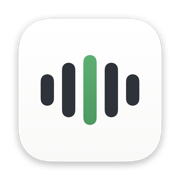
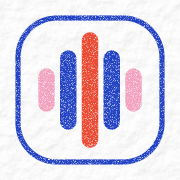
Cadence site: orb in the hero demo, loop on the hero line, cold-press paper, tighter spacing, new mark, DC Labs company credit
- The orb sits beside the Notes window; while you talk the note types (one word per
  stretch of voice). The separate Try it section is gone, so the flow is back.
- The hand-drawn loop circles 'Nothing leaves your Mac.'; its length is measured on
  screen so the draw is a full line.
- Paper: embossed cold-press texture (feDiffuseLighting) on every surface.
- Spacing: one section rhythm, wider demo, hero art capped, feature grid with no gaps,
  header nav collapses before it wraps; checked 360-2560 with no overflow.
- Mark: pink and cobalt bars with a red peak on white paper (no coloured tile);
  favicon and touch icon regenerated from it.
- Credit everywhere: Built by DC Labs, a Daniel J. Cuesta company.

diff --git a/site/style.css b/site/style.css
@@ -11,6 +11,7 @@
   --sans:-apple-system,BlinkMacSystemFont,"SF Pro Text","Helvetica Neue",Arial,sans-serif;
   --mono:ui-monospace,"SF Mono",Menlo,monospace;
   --gutter:clamp(16px,5vw,64px); --max:1120px;
+  --section:clamp(64px,8vw,112px);
   /* The content cap tracks the window instead of stopping at a fixed 1120px, which left wide
      dead margins either side on any screen wider than ~1250px (Daniel, 14 Oct: "no matter what
      computer it's loaded in it fixes itself accordingly"). Gutters already scale, so the column
@@ -51,23 +52,23 @@ code { font-size:.88em; }
 .site-header .nav-cta { color:var(--blue-ink); background:var(--blue); padding:0 18px; border-radius:999px; box-shadow:3px 3px 0 var(--pink); }
 .site-header .nav-cta:hover { color:var(--blue-ink); transform:translate(-1px,-1px); box-shadow:4px 4px 0 var(--pink); }
 
-main > section { padding:clamp(72px,10vw,128px) var(--gutter); }
+main > section { padding:var(--section) var(--gutter); }
 main > section > * { max-width:var(--max); margin-left:auto; margin-right:auto; }
 .kicker,.eyebrow { font:700 12px/1.4 var(--sans); letter-spacing:.24em; text-transform:uppercase; color:var(--red-text); margin-top:0; margin-bottom:16px; }
 h1,h2,h3 { margin:0; line-height:1.05; color:var(--blue); }
-h2 { font:700 clamp(36px,5.2vw,64px)/1.02 var(--serif); letter-spacing:-.02em; text-wrap:balance; margin-bottom:clamp(28px,4vw,48px); }
+h2 { font:700 clamp(34px,4.6vw,60px)/1.04 var(--serif); letter-spacing:-.02em; text-wrap:balance; margin-bottom:clamp(24px,3.4vw,44px); }
 h3 { font:700 21px/1.25 var(--serif); }
 .section-lede { color:var(--muted); font-size:19px; padding-right:max(0px,calc(100% - 60ch)); margin-top:-24px; margin-bottom:36px; }
 .caption { color:var(--muted); font-size:14px; margin-top:20px; }
 
 /* Hero */
-.hero { padding-top:clamp(48px,7vw,96px) !important; padding-bottom:clamp(56px,7vw,96px) !important; }
+.hero { padding-top:clamp(36px,5vw,72px) !important; }
 .hero-grid { display:grid; grid-template-columns:minmax(0,1.05fr) minmax(0,.95fr); gap:clamp(32px,5vw,72px); align-items:center; }
-.hero h1 { font:700 clamp(48px,6vw,92px)/.96 var(--serif); letter-spacing:-.035em; }
+.hero h1 { font:700 clamp(38px,6vw,92px)/.96 var(--serif); letter-spacing:-.035em; }
 .hero h1 span { display:inline-block; margin-top:.12em; font-style:italic; font-weight:500; font-size:.62em; letter-spacing:-.02em; color:var(--red-text); }
 .lede { font-size:clamp(18px,1.7vw,21px); color:var(--muted); max-width:52ch; margin:26px 0 34px; }
 .hero-actions { display:flex; gap:14px; flex-wrap:wrap; }
-.hero-art { padding:clamp(8px,1.4vw,16px); transform:rotate(1.2deg); }
+.hero-art { padding:clamp(8px,1.4vw,16px); transform:rotate(1.2deg); width:100%; max-width:620px; justify-self:end; }
 .button { display:inline-flex; align-items:center; justify-content:center; min-height:52px; padding:0 26px; border-radius:999px;
   background:var(--blue); color:var(--blue-ink); font:700 16px/1 var(--sans); text-decoration:none; border:2px solid var(--blue); box-shadow:4px 4px 0 var(--pink); transition:transform .12s, box-shadow .12s; }
 .button:hover { transform:translate(-2px,-2px); box-shadow:6px 6px 0 var(--pink); }
@@ -76,13 +77,13 @@ h3 { font:700 21px/1.25 var(--serif); }
 .button.ghost:hover { background:var(--pink-soft); box-shadow:none; transform:none; }
 
 /* Hero demo: a note window and the dictation pill */
-.demo { position:relative; margin-top:clamp(56px,7vw,88px) !important; max-width:820px !important; }
+.demo { position:relative; margin-top:clamp(40px,5vw,72px) !important; max-width:1180px !important; }
 .window { background:var(--card); border:2px solid var(--blue); border-radius:16px; text-align:left; box-shadow:8px 8px 0 var(--pink); }
 .window-bar { display:flex; gap:8px; align-items:center; padding:12px 14px; border-bottom:2px solid var(--blue); }
 .window-bar span { width:11px; height:11px; border-radius:50%; border:2px solid var(--blue); }
 .window-bar span:first-child { background:var(--red); border-color:var(--red); }
 .window-bar p { margin:0 auto; font:600 12px/1 var(--sans); letter-spacing:.16em; text-transform:uppercase; color:var(--muted); transform:translateX(-24px); }
-.typed { margin:0; padding:28px clamp(18px,4vw,36px) 72px; font:clamp(18px,2.1vw,24px)/1.55 var(--serif); color:var(--ink); min-height:190px; }
+.typed { margin:0; padding:26px clamp(18px,3.4vw,34px) 64px; font:clamp(18px,2.1vw,24px)/1.55 var(--serif); color:var(--ink); min-height:190px; }
 .typed .w { opacity:0; animation:word .25s ease-out forwards; }
 .caret { display:inline-block; width:3px; height:1.1em; margin-left:3px; vertical-align:-.15em; background:var(--red); animation:blink 1s steps(1) infinite; }
 .pill { position:absolute; left:50%; bottom:-22px; transform:translateX(-50%); display:flex; align-items:center; gap:10px;
@@ -99,30 +100,32 @@ h3 { font:700 21px/1.25 var(--serif); }
 @keyframes word { from { opacity:0; filter:blur(3px); } to { opacity:1; filter:none; } }
 @keyframes blink { 50% { opacity:0; } }
 
-/* Try it: a hand-drawn loop around the title, then the voice orb */
-.scribble-title { position:relative; max-width:880px !important; padding:clamp(48px,7vw,84px) 0; }
-.try { text-align:center; overflow:clip; padding-top:clamp(24px,4vw,56px) !important; }
-.scribble { position:absolute; inset:-2% -9%; width:118%; height:104%; overflow:visible; pointer-events:none; }
-.scribble path { fill:none; stroke:var(--red); stroke-width:12; stroke-linecap:round; stroke-linejoin:round; opacity:.9; stroke-dasharray:1 2; stroke-dashoffset:0; }
-.scribble-title > :not(svg) { position:relative; }
-.scribble-title h2 { font-size:clamp(40px,5.4vw,72px); margin-bottom:12px; }
-.scribble-sub { margin:0 auto; max-width:40ch; color:var(--muted); font-size:clamp(17px,1.8vw,21px); }
-/* 1.05 with a gap of 2: the round cap sits fully inside the gap, so no stray dot before the draw */
-.scribble-title.armed .scribble path { stroke-dashoffset:1.05; }
-.scribble-title.armed h2 { opacity:0; transform:translateY(20px); }
-.scribble-title.armed .scribble-sub { opacity:0; }
-.scribble-title.drawn .scribble path { animation:draw 2.5s cubic-bezier(.43,.13,.23,.96) forwards; }
-.scribble-title.drawn h2 { opacity:1; transform:none; transition:opacity .8s .5s, transform .8s .5s; }
-.scribble-title.drawn .scribble-sub { opacity:1; transition:opacity .8s 1s; }
+/* The loop: a red pencil circle drawn once around "Nothing leaves your Mac." (stretches to the line) */
+.hero h1 .circled { position:relative; display:inline-block; padding:.08em .22em; margin-left:-.22em; }
+.scribble { position:absolute; left:-18%; top:-34%; width:140%; height:168%; overflow:visible; pointer-events:none; }
+.scribble path { fill:none; stroke:var(--red); stroke-width:4.5px; stroke-linecap:round; stroke-linejoin:round; opacity:.92; }
+/* try.js measures the on-screen length into --loop. Gap of 2 and offset 1.05: the round cap
+   sits fully inside the gap, so no stray dot before the draw. Without JS the loop is just drawn. */
+.circled.armed .scribble path { stroke-dasharray:var(--loop) calc(var(--loop) * 2); stroke-dashoffset:calc(var(--loop) * 1.05); }
+.circled.drawn .scribble path { animation:draw 2.5s .4s cubic-bezier(.43,.13,.23,.96) forwards; }
 @keyframes draw { to { stroke-dashoffset:0; } }
-.try-stage { display:flex; flex-direction:column; align-items:center; gap:18px; margin-top:clamp(12px,3vw,32px) !important; }
-.orb-card { position:relative; width:min(420px,100%); aspect-ratio:1; overflow:hidden; display:grid; place-items:center; }
+
+/* Live demo: the Notes window and the orb side by side, the controls underneath */
+.demo-grid { display:grid; grid-template-columns:minmax(0,1.7fr) minmax(0,1fr); gap:clamp(18px,2.4vw,32px); align-items:stretch; }
+.demo-note { position:relative; display:flex; }
+.demo-note .window { flex:1; }
+.orb-card { position:relative; min-height:240px; overflow:hidden; display:grid; place-items:center; }
 .orb-card canvas { position:absolute; inset:0; width:100%; height:100%; display:block; }
-.orb-fallback { display:none; width:60%; }
+.orb-fallback { display:none; width:min(60%,200px); }
 .orb-card.no-webgl canvas { display:none; }
 .orb-card.no-webgl .orb-fallback { display:block; }
-.orb-status { min-height:1.6em; margin:0; font:italic 600 19px/1.4 var(--serif); color:var(--blue); }
-.orb-note { max-width:52ch; margin:0; }
+.demo-controls { display:flex; flex-wrap:wrap; align-items:center; gap:10px 18px; margin-top:44px; }
+.orb-status { margin:0; font:italic 600 18px/1.4 var(--serif); color:var(--blue); }
+.orb-status:empty { display:none; }
+.orb-note { flex-basis:100%; max-width:68ch; margin:0; }
+/* Typing along: while the mic is live, words appear only as you speak */
+.typed.live .w { animation:none; opacity:0; transition:opacity .18s ease-out; }
+.typed.live .w.on { opacity:1; }
 [hidden] { display:none !important; }
 
 /* Steps */
@@ -136,11 +139,13 @@ h3 { font:700 21px/1.25 var(--serif); }
 kbd { display:inline-flex; align-items:center; min-height:28px; padding:0 8px; margin-right:3px; border:2px solid var(--blue); border-bottom-width:4px; border-radius:8px; background:var(--card); color:var(--blue); font:700 13px/1 var(--sans); }
 
 /* Features */
-.feature-grid { list-style:none; padding:0; margin:0; display:grid; grid-template-columns:repeat(3,minmax(0,1fr)); gap:18px; }
+.feature-grid { list-style:none; padding:0; margin:0; display:grid; grid-template-columns:repeat(6,minmax(0,1fr)); gap:18px; }
+.feature-grid li { grid-column:span 2; }
+.feature-grid li:nth-child(2),.feature-grid li:nth-child(3) { grid-column:span 3; }
 .feature-grid li { border:2px solid var(--blue); border-radius:22px; padding:28px; background:var(--card); }
 .feature-grid p { color:var(--muted); margin:10px 0 0; }
 .feature-art .spot { width:96px; height:96px; margin-bottom:18px; }
-.feature-lead { grid-column:span 3; display:grid; grid-template-columns:auto minmax(0,1fr); gap:clamp(20px,4vw,44px); align-items:center;
+.feature-lead { grid-column:1 / -1 !important; display:grid; grid-template-columns:auto minmax(0,1fr); gap:clamp(20px,4vw,44px); align-items:center;
   background:var(--blue) !important; color:var(--blue-ink); padding:clamp(24px,4vw,44px) !important; box-shadow:8px 8px 0 var(--pink); }
 .lead-art { width:clamp(120px,16vw,200px); height:auto; background:var(--print); border-radius:20px; }
 .feature-lead h3 { font-size:clamp(28px,3.2vw,38px); color:var(--blue-ink); }
@@ -215,31 +220,36 @@ pre { background:var(--paper); border:2px dashed var(--line); border-radius:12px
 .doc-date { font-size:13px; color:var(--muted); }
 
 /* Paper: one list of every surface that carries the texture. Prints keep theirs in night mode. */
-body,pre,.window,.steps-band,.steps li,kbd,.feature-grid li,.compare,.table-wrap,.download-card,.copy,.creator,.creator-card,.site-footer { background-image:var(--texture); background-size:320px; }
+body,.site-header,pre,.window,.steps-band,.steps li,kbd,.feature-grid li,.compare,.table-wrap,.download-card,.copy,.creator,.creator-card,.site-footer { background-image:var(--texture); background-size:320px; }
 .print,.spot,.lead-art,.brand img,.footer-brand img { background-image:var(--print-texture); background-size:320px; }
 
 @media (max-width:900px) {
   .hero-grid,.steps,.download-grid,.creator-card,.site-footer { grid-template-columns:minmax(0,1fr); }
   .hero-art { max-width:520px; }
   .feature-grid { grid-template-columns:repeat(2,minmax(0,1fr)); }
-  .feature-lead { grid-column:span 2; }
+  .feature-grid li,.feature-grid li:nth-child(2),.feature-grid li:nth-child(3) { grid-column:span 1; }
+  .demo-grid { grid-template-columns:minmax(0,1fr); row-gap:44px; }
+  .orb-card { min-height:0; aspect-ratio:16 / 9; }
+  .hero-art { justify-self:center; }
   .site-footer nav { justify-content:flex-start; }
 }
-@media (max-width:560px) {
+@media (max-width:760px) {
   .site-header nav a:not(.nav-cta) { display:none; }
-  .feature-grid { grid-template-columns:minmax(0,1fr); }
-  .feature-lead { grid-column:auto; grid-template-columns:minmax(0,1fr); }
-  .pill-label { display:none; }
-  .hero-art { transform:none; }
-  .scribble-title { padding:56px 0; }
-  .scribble-sub { max-width:24ch; font-size:16px; }
 }
+@media (max-width:560px) {
+  .feature-grid { grid-template-columns:minmax(0,1fr); }
+  .feature-lead { grid-template-columns:minmax(0,1fr); }
+  .orb-card { aspect-ratio:4 / 3; }
+  .pill-label { display:none; }
+  .hero h1 { font-size:clamp(34px,10.4vw,48px); }
+  .hero-art { transform:none; }
+  }
 @media (prefers-reduced-motion:reduce) {
   html { scroll-behavior:auto; }
   .typed .w { animation:none; opacity:1; }
   .caret,.bars i { animation:none; }
   .button { transition:none; }
-  .scribble-title.drawn .scribble path { animation:none; stroke-dashoffset:0; }
-  .scribble-title.drawn h2,.scribble-title.drawn .scribble-sub { transition:none; }
+  .circled.drawn .scribble path { animation:none; stroke-dashoffset:0; }
+  .typed.live .w { transition:none; }
   .button:hover,.button:active,.site-header .nav-cta:hover { transform:none; }
 }

diff --git a/site/try.js b/site/try.js
@@ -1,5 +1,5 @@
-// Cadence site: the "Try it" section. A hand-drawn loop around the title, and a voice orb
-// that reacts to how loud you are. The microphone is opt-in (a button), the analyser reads
+// Cadence site: the live demo in the hero. A hand-drawn loop around "Nothing leaves your Mac",
+// and a voice orb beside the Notes window: while you talk, the orb swells and the note types. The microphone is opt-in (a button), the analyser reads
 // loudness only, and nothing is recorded, stored or sent. Stop releases the microphone.
 // Without WebGL the orb is a still illustration; without JavaScript the loop is already drawn.
 
@@ -9,6 +9,29 @@ function voiceLevel(bins, sensitivity) {
   let sum = 0;
   for (let i = 0; i < bins.length; i++) { const v = bins[i] / 255; sum += v * v; }
   return Math.min(Math.sqrt(sum / bins.length) * sensitivity * 3, 1);
+}
+
+// The demo note: one more word for every WORD_SECONDS of voice, so the note fills as you talk.
+// The browser only hears loudness, so it types the sample sentence; the app types your words.
+const WORD_SECONDS = 0.18;
+function typeAlong(state, level, dt, total) {
+  if (level > 0.12) state.voiced += dt; else state.quiet += dt;
+  if (level > 0.12) state.quiet = 0;
+  while (state.voiced >= WORD_SECONDS && state.shown < total) { state.shown++; state.voiced -= WORD_SECONDS; }
+  if (state.shown >= total && state.quiet > 2) { state.shown = 0; state.voiced = 0; } // finished and quiet: start a fresh note
+  return state;
+}
+
+// On-screen length of the stretched loop. Its stroke doesn't scale, so the browser dashes it in
+// screen pixels: sample the path and scale each step by how much the line box stretches it.
+function loopLength(path, box, viewW, viewH) {
+  const sx = box.width / viewW, sy = box.height / viewH, total = path.getTotalLength();
+  let len = 0, prev = path.getPointAtLength(0);
+  for (let i = 1; i <= 120; i++) {
+    const p = path.getPointAtLength(total * i / 120);
+    len += Math.hypot((p.x - prev.x) * sx, (p.y - prev.y) * sy); prev = p;
+  }
+  return len;
 }
 
 // Spin and wobble for one frame: the orb only turns while it hears you.
@@ -69,7 +92,7 @@ vec4 draw(vec2 uv) {
   float v2 = smoothstep(1.0, mix(innerRadius, 1.0, n0 * 0.5), len);
   float v3 = smoothstep(innerRadius, mix(innerRadius, 1.0, 0.5), len);
   // Ink amounts instead of light: the ring is pink turning to cobalt, the travelling spark is red.
-  float ink = clamp(v0 * v2 * v3 * 1.7, 0.0, 1.0);
+  float ink = clamp(v0 * v2 * v3 * (1.7 + hover * 1.2), 0.0, 1.0); // your voice darkens the ink
   vec3 col = mix(pink, cobalt, cl);
   float spark = clamp(v1 * v2 * v3, 0.0, 1.0);
   col = mix(col, red, spark * 0.85);
@@ -169,7 +192,7 @@ function createListener(mediaDevices, AudioContextClass) {
 const TRY_TEXT = {
   idle: 'Try it with your voice',
   stop: 'Stop listening',
-  listening: 'Listening. Say something.',
+  listening: 'Listening. Say something, and watch the note.',
   hearing: 'Hearing you.',
   denied: 'No microphone was shared, so the orb is just breathing. That is fine too.',
   stopped: 'Microphone off.',
@@ -180,6 +203,10 @@ function initTry(doc, env) {
   const button = doc.querySelector('[data-orb-toggle]');
   const status = doc.querySelector('[data-orb-status]');
   const canvas = root && root.querySelector('canvas');
+  const typed = doc.querySelector('.typed');
+  const words = typed && typed.querySelectorAll ? [...typed.querySelectorAll('.w')] : [];
+  const note = { voiced: 0, quiet: 0, shown: 0 };
+  const showWords = n => words.forEach((w, i) => w.classList.toggle('on', i < n));
   const fallBack = () => { orb = null; if (root) root.classList.add('no-webgl'); };
   let orb = canvas ? env.createOrb(canvas, fallBack) : null;
   if (!orb) fallBack();
@@ -199,6 +226,9 @@ function initTry(doc, env) {
     if (orb) orb.frame(still ? 1.5 : t / 1000, motion);
     // Announce sparingly: "Hearing you" once you get loud, back to "Listening" after 1.5 s of quiet.
     if (listener.listening) {
+      const before = note.shown;
+      typeAlong(note, level, dt, words.length);
+      if (note.shown !== before) showWords(note.shown);
       if (level > 0.12) loudAt = t;
       const now = t - loudAt < 1500;
       if (now !== heard) { heard = now; say(now ? TRY_TEXT.hearing : TRY_TEXT.listening); }
@@ -206,7 +236,7 @@ function initTry(doc, env) {
     if (wanted()) rafId = env.raf(tick);
   }
   const setButton = on => { if (!button) return; button.textContent = on ? TRY_TEXT.stop : TRY_TEXT.idle; button.setAttribute('aria-pressed', on ? 'true' : 'false'); };
-  const stop = message => { listener.stop(); heard = false; loudAt = -Infinity; setButton(false); if (button) button.disabled = false; if (message) say(message); };
+  const stop = message => { listener.stop(); if (typed) typed.classList.remove('live'); heard = false; loudAt = -Infinity; setButton(false); if (button) button.disabled = false; if (message) say(message); };
   // The button only appears where a microphone could actually work.
   if (button && env.mediaDevices && env.mediaDevices.getUserMedia && env.AudioContext) button.hidden = false;
   if (button) button.addEventListener('click', async () => {
@@ -217,6 +247,8 @@ function initTry(doc, env) {
     if (ok === null) return;           // cancelled while asking (page hidden): stay quiet
     if (!ok) return say(TRY_TEXT.denied);
     setButton(true); say(TRY_TEXT.listening);
+    note.voiced = note.quiet = note.shown = 0; showWords(0);
+    if (typed) typed.classList.add('live');
     schedule();
   });
   // Leaving or hiding the page always gives the microphone back, even mid-permission-prompt.
@@ -224,8 +256,12 @@ function initTry(doc, env) {
   if (root && env.IntersectionObserver) new env.IntersectionObserver(entries => { onScreen = entries.some(e => e.isIntersecting); schedule(); }).observe(root);
   if (canvas && env.ResizeObserver) new env.ResizeObserver(() => schedule()).observe(canvas);
   schedule();
-  // The loop draws itself when the title scrolls into view (already drawn without JS).
-  doc.querySelectorAll('.scribble-title').forEach(el => {
+  // The loop draws itself when the line scrolls into view (already drawn without JS).
+  doc.querySelectorAll('.circled').forEach(el => {
+    const svg = el.querySelector && el.querySelector('svg'), path = svg && svg.querySelector('path');
+    const measure = () => { if (path && path.getTotalLength && el.style) el.style.setProperty('--loop', loopLength(path, svg.getBoundingClientRect(), 1200, 600).toFixed(1) + 'px'); };
+    measure();
+    if (svg && env.ResizeObserver) new env.ResizeObserver(measure).observe(svg);
     el.classList.add('armed');
     if (still || !env.IntersectionObserver) return el.classList.add('drawn');
     const io = new env.IntersectionObserver(entries => entries.forEach(e => { if (e.isIntersecting) { el.classList.add('drawn'); io.disconnect(); } }), { threshold: 0.4 });

diff --git a/site/index.html b/site/index.html
@@ -36,8 +36,8 @@
 <section class="hero" aria-labelledby="hero-title">
   <div class="hero-grid">
   <div class="hero-copy">
-  <p class="eyebrow">A DC Labs product · Free &amp; open source · macOS</p>
-  <h1 id="hero-title">Speak. It types.<br><span>Nothing leaves your Mac.</span></h1>
+  <p class="eyebrow">DC Labs · Free &amp; open source · macOS</p>
+  <h1 id="hero-title">Speak. It types.<br><span class="circled">Nothing leaves your Mac.<svg class="scribble" viewBox="0 0 1200 600" preserveAspectRatio="none" aria-hidden="true" focusable="false"><path pathLength="1" vector-effect="non-scaling-stroke" d="M 950 90 C 1250 300, 1050 480, 600 520 C 250 520, 150 480, 150 300 C 150 120, 350 80, 600 80 C 850 80, 950 180, 950 180"/></svg></span></h1>
   <p class="lede">Hold a key, say what you mean, let go. Cadence turns your voice into text in whatever app you're using, transcribed entirely on your Mac. Works offline, in two languages, for free.</p>
   <div class="hero-actions">
     <a class="button" href="#download">Download for Mac</a>
@@ -46,39 +46,25 @@
   </div>
   <figure class="hero-art print"><img src="art/announcer.svg" alt="An illustrated announcer speaks into a vintage microphone, and the words leave it as a line of type" width="540" height="480"></figure>
   </div>
-  <div class="demo" aria-hidden="true">
-    <div class="window">
+  <div class="demo" id="try">
+    <div class="demo-grid">
+      <div class="demo-note" aria-hidden="true">
+        <div class="window">
       <div class="window-bar"><span></span><span></span><span></span><p>Notes</p></div>
       <p class="typed"><span class="w">Quick</span> <span class="w">thought</span> <span class="w">before</span> <span class="w">I</span> <span class="w">forget:</span> <span class="w">the</span> <span class="w">launch</span> <span class="w">email</span> <span class="w">goes</span> <span class="w">out</span> <span class="w">Thursday,</span> <span class="w">and</span> <span class="w">the</span> <span class="w">Spanish</span> <span class="w">version</span> <span class="w">too.</span><span class="caret"></span></p>
     </div>
     <div class="pill"><span class="dot"></span><span class="bars"><i></i><i></i><i></i><i></i><i></i></span><span class="pill-label">Listening · EN</span></div>
-  </div>
-</section>
-
-<section class="try" id="try" aria-labelledby="try-title">
-  <div class="scribble-title">
-    <svg class="scribble" viewBox="0 0 1200 600" aria-hidden="true" focusable="false">
-      <defs>
-        <filter id="scribble-grain" filterUnits="userSpaceOnUse" x="0" y="0" width="1200" height="600">
-          <feTurbulence type="fractalNoise" baseFrequency="1.1" numOctaves="2" seed="7" result="n"/>
-          <feColorMatrix in="n" type="matrix" values="0 0 0 0 0  0 0 0 0 0  0 0 0 0 0  -2.6 0 0 0 2.3" result="speck"/>
-          <feComposite in="SourceGraphic" in2="speck" operator="in"/>
-        </filter>
-      </defs>
-      <path pathLength="1" filter="url(#scribble-grain)" d="M 950 90 C 1250 300, 1050 480, 600 520 C 250 520, 150 480, 150 300 C 150 120, 350 80, 600 80 C 850 80, 950 180, 950 180"/>
-    </svg>
-    <p class="kicker">Try it</p>
-    <h2 id="try-title">Say something.</h2>
-    <p class="scribble-sub">The orb listens in this tab, the way Cadence listens on your Mac.</p>
-  </div>
-  <div class="try-stage">
-    <figure class="orb-card print" data-orb>
-      <canvas aria-hidden="true"></canvas>
-      <img class="orb-fallback" src="art/speak.svg" alt="" width="240" height="240">
-    </figure>
-    <button type="button" class="button" data-orb-toggle aria-pressed="false" hidden>Try it with your voice</button>
-    <p class="orb-status" data-orb-status role="status" aria-live="polite"></p>
-    <p class="small orb-note">Your voice stays in this browser tab. The orb reads only how loud you are, and nothing is recorded, saved or sent. Stop gives the microphone back.</p>
+      </div>
+      <figure class="orb-card print" data-orb>
+        <canvas aria-hidden="true"></canvas>
+        <img class="orb-fallback" src="art/speak.svg" alt="" width="240" height="240">
+      </figure>
+    </div>
+    <div class="demo-controls">
+      <button type="button" class="button" data-orb-toggle aria-pressed="false" hidden>Try it with your voice</button>
+      <p class="orb-status" data-orb-status role="status" aria-live="polite"></p>
+      <p class="small orb-note">A browser demo: talk and the note fills in. The browser only hears how loud you are, so it types a sample sentence; the app types your real words. Nothing is recorded, saved or sent, and Stop gives the microphone back.</p>
+    </div>
   </div>
 </section>
 
@@ -159,8 +145,8 @@ brew install --cask cadence</code></pre>
     <div class="monogram" aria-hidden="true">DC</div>
     <div>
       <p class="kicker">About the creator</p>
-      <h2 id="creator-title">Built by Daniel Cuesta at DC&nbsp;Labs.</h2>
-      <p>Daniel is a student founder who runs a lot at once: Addisuna Coffee, a coffee company where every bag funds a student's learning in Ethiopia, and Wednesdays of Wisdom, a weekly letter. He talks faster than he types, in English and Spanish, and wanted dictation that kept his words on his own machine. So he built it. Cadence is a DC Labs product, the label for the tools he makes.</p>
+      <h2 id="creator-title">Built by DC Labs, a Daniel J. Cuesta company.</h2>
+      <p>Daniel is a student founder who runs a lot at once: Addisuna Coffee, a coffee company where every bag funds a student's learning in Ethiopia, and Wednesdays of Wisdom, a weekly letter. He talks faster than he types, in English and Spanish, and wanted dictation that kept his words on his own machine. So he built it. DC Labs is the studio behind the tools he makes.</p>
       <ul class="creator-links">
         <li><a href="https://danielcuesta007.com" rel="noopener">danielcuesta007.com</a></li>
         <li><a href="https://addisuna.com" rel="noopener">Addisuna Coffee</a></li>
@@ -185,7 +171,7 @@ brew install --cask cadence</code></pre>
 </main>
 
 <footer class="site-footer">
-  <div class="footer-brand"><img src="art/mark.svg" alt="" width="40" height="40"><p><strong>Cadence</strong><br>A DC Labs product</p></div>
+  <div class="footer-brand"><img src="art/mark.svg" alt="" width="40" height="40"><p><strong>Cadence</strong><br>Built by DC Labs, a Daniel J. Cuesta company.</p></div>
   <nav aria-label="Footer">
     <a href="legal.html#privacy">Privacy</a>
     <a href="legal.html#license">License</a>

diff --git a/site/legal.html b/site/legal.html
@@ -46,7 +46,7 @@
     <li><b>whisper.cpp</b> by Georgi Gerganov and contributors (MIT), used through <b>whisper-rs</b> (Unlicense).</li>
     <li><b>SQLCipher</b> by Zetetic (BSD-style), through <b>rusqlite</b> (MIT), with <b>OpenSSL</b> (Apache 2.0).</li>
   </ul>
-  <p>Designed and built by Daniel Cuesta under DC Labs.</p>
+  <p>Built by DC Labs, a Daniel J. Cuesta company.</p>
 
   <h2 id="trademarks">Trademarks</h2>
   <p>Wispr Flow, Superwhisper, Apple, macOS and OpenAI belong to their owners. They're named here only to compare features and to credit the work Cadence uses. Cadence is an independent project and is not affiliated with, sponsored by or endorsed by any of them.</p>
@@ -55,7 +55,7 @@
   <p>Questions and bugs: open an issue on <a href="https://github.com/danieljcuesta007/cadence/issues" rel="noopener">GitHub</a>. For a security problem, use <em>Report a vulnerability</em> on the repository's Security tab instead, so the details stay private.</p>
 </main>
 <footer class="site-footer">
-  <div class="footer-brand"><img src="art/mark.svg" alt="" width="40" height="40"><p><strong>Cadence</strong><br>A DC Labs product</p></div>
+  <div class="footer-brand"><img src="art/mark.svg" alt="" width="40" height="40"><p><strong>Cadence</strong><br>Built by DC Labs, a Daniel J. Cuesta company.</p></div>
   <nav aria-label="Footer"><a href="index.html">Home</a><a href="https://github.com/danieljcuesta007/cadence" rel="noopener">Source</a></nav>
   <p class="fineprint">© 2026 Daniel Cuesta. MIT licensed. Cadence is not affiliated with or endorsed by the companies named on this page.</p>
 </footer>

diff --git a/README.md b/README.md
@@ -225,3 +225,7 @@ MIT — see [LICENSE](LICENSE). Note that the vendored dependencies carry their 
 continue to apply to any built artifact: whisper.cpp and ggml (MIT), SQLCipher (BSD-style),
 OpenSSL (Apache-2.0). Model weights are downloaded from their publishers under their own terms
 and are not redistributed here.
+
+---
+
+Built by DC Labs, a Daniel J. Cuesta company.
